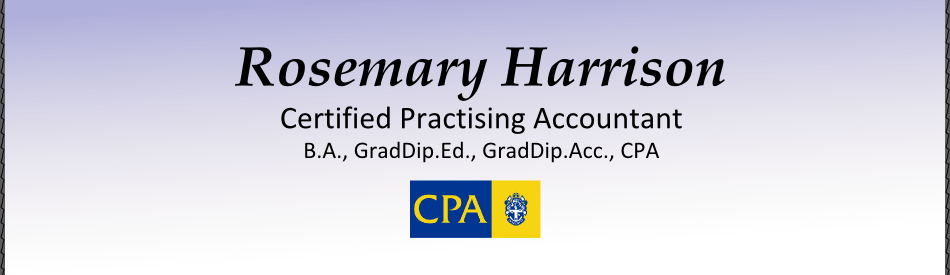
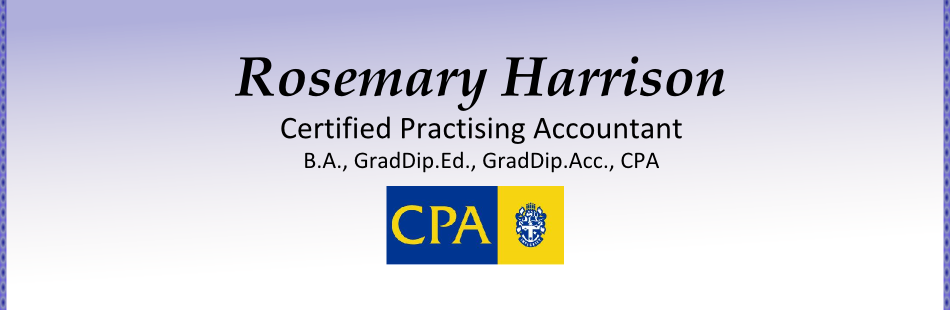
ok

diff --git a/style.css b/style.css
@@ -10,7 +10,7 @@ div,h1,h2,p1,p2,span,img,a { margin:0; padding:0; list-style:none; border:0; tex
 #wrap { width:950px; margin:0 auto; background:url(./border.png) repeat-y; overflow:hidden; }
 
 /*======== Header Section ========*/
-#header { width:950px; height:270px; float:left; background:url(./header.png) no-repeat; }
+#header { width:950px; height:310px; float:left; background:url(./header.png) no-repeat; }
 .logo { width:auto; float:left; margin:20px 0 0 19px; padding:0; }
 
 /*======== Bodycontainer Section ========*/
